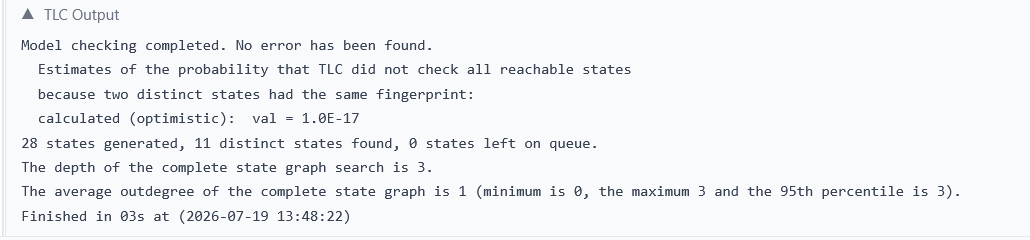
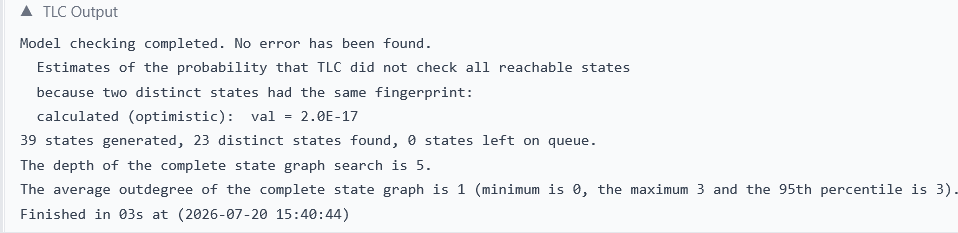
Changes

diff --git a/README.md b/README.md
@@ -4,82 +4,20 @@ This repository contains the formal verification source code for the off-chain d
 
 The system utilizes an immutable blockchain ledger to anchor cryptographic hashes (Merkle Roots) of historical database states, enabling decentralized, automated verification and **Point-in-Time Recovery (PITR)** in the event of localized data corruption, ransomware deployment, or unauthorized data tampering.
 
+This repository contains the formal specification of the HRABAC Recovery mechanism—a security and Point-in-Time Recovery (PITR) framework that utilizes an immutable on-chain distributed ledger as a root of trust (Anchor) to secure and restore off-chain state histories.The model is written in TLA+ and verified using the TLC Model Checker.
+
+
+## 📌 Model Architecture
+
+The specification models a system composed of three core state variables:offchainDB: The active, live state of the off-chain database. It can reside either in a trusted state (ValidStates) or be compromised by an attacker (CorruptedStates).snapshots: A sequence representing historical point-in-time backups of the database stored off-chain.onchainLedger: An append-only, immutable sequence of Merkle roots (hashes) anchored to the blockchain, serving as cryptographic proof of historical truth.
+
+## ⚙ System Actions (Transitions)
+
+The state space transitions through the following legal operations:AnchorAndSnapshot: The Inspector backs up the current valid database state and anchors its corresponding Merkle root to the immutable on-chain ledger.AdversarialMutation: An adversary executes an unauthorized write operation, forcing the live database into a compromised state.RecoverySuccess: If a cryptographic match is found between an off-chain snapshot and an on-chain root, the system automatically rolls back the active database to the latest verified valid state. RecoveryFailed: If an attack occurs before any valid snapshot is anchored on-chain, the system safely falls back into a permanent failure state ("Permanent_Failure"). SystemTerminated: A safe stuttering loop that prevents false deadlocks after a terminal failure state is reached.
+
 ## Formal Verification Architecture
 
 The synchronization layer is formally modeled and verified using **TLA+ (Temporal Logic of Actions)** and verified via the **TLC Model Checker** to evaluate safety properties across 100% of the reachable state space exploration graph.
-
-### 1. TLA+ Specification (`HRABAC_Recovery.tla`)
-
-```tla
-------------------- MODULE HRABAC_Recovery -------------------
-EXTENDS Integers, Sequences
-
-(* Parameters of the system *)
-CONSTANT Snapshots   \* The set of all historical off-chain snapshots
-
-\* Define Blockchain locally as a fixed sequence for structural verification
-Blockchain == <<"Snapshot_Jan", "Snapshot_Feb", "Snapshot_March_Clean">>
-
-VARIABLES 
-    current_db,       \* Current state of the active off-chain database
-    selected_snapshot,\* The snapshot picked by the recovery engine
-    system_status     \* Status of the system: "Operational", "Corrupted", "Recovered"
-
-(* Initial state configuration *)
-Init ==
-    /\ current_db \in Snapshots
-    /\ selected_snapshot = "None"
-    /\ system_status = "Operational"
-
-(* Action 1: An adversarial attack or data corruption occurs off-chain *)
-CorruptDatabase ==
-    /\ system_status = "Operational"
-    /\ current_db' \in Snapshots \ {current_db}  \* DB mutates to an unanchored state
-    /\ system_status' = "Corrupted"
-    /\ UNCHANGED <<selected_snapshot>>
-
-(* Action 2: The recovery engine scans history to locate the matching anchor *)
-ExecuteRecovery ==
-    /\ system_status = "Corrupted"
-    /\ \E s \in Snapshots :
-          /\ \E idx \in 1..Len(Blockchain) : Blockchain[idx] = s  \* Crypto Match
-          /\ selected_snapshot' = s
-    /\ current_db' = selected_snapshot'
-    /\ system_status' = "Recovered"
-
-(* Next state transitions *)
-Next == CorruptDatabase \/ ExecuteRecovery
-
-(* System Specification Macro *)
-Spec == Init /\ [][Next]_<<current_db, selected_snapshot, system_status>>
-
-(* THE STATE INVARIANT PROOF *)
-RecoveryStateInvariant ==
-    (system_status = "Recovered") => 
-        (current_db = selected_snapshot /\ \E idx \in 1..Len(Blockchain) : Blockchain[idx] = current_db)
-==============================================================
-```
-
-### 2. Model Checker Configuration (`HRABAC_Recovery.cfg`)
-
-```text
-SPECIFICATION Spec
-
-CONSTANT 
-    Snapshots = {"Snapshot_Jan", "Snapshot_Feb", "Snapshot_March_Clean", "Snapshot_April_Adversarial"}
-
-INVARIANT RecoveryStateInvariant
-
-CHECK_DEADLOCK FALSE
-```
-
-## The State Invariant Explained
-
-The framework guarantees ultimate safety via the **`RecoveryStateInvariant`** formula:
-
-```text
-Target_Snapshot_Sk = Max_Chronological { S_i in Snapshots | MR(S_i) == B_i }
-```
 
 ### Protocol Mechanics:
 1. **Dynamic Generation:** When data verification is initialized, the system reconstructs the off-chain data array, hashing the target snapshot state into a Merkle Root (`MR(S_i)`).
@@ -90,9 +28,9 @@ Target_Snapshot_Sk = Max_Chronological { S_i in Snapshots | MR(S_i) == B_i }
 
 When processed through the TLC Model Checker engine, the configuration generates the following structural evaluation profile:
 
-* **States Generated:** 28 states
-* **Distinct States Discovered:** 11 unique configurations
-* **Max Graph Execution Depth:** 3 levels (Initial -> Corrupted -> Recovered)
-* **Verification Status:** `Success: No error has been found.`
+* **States Generated:** 39 states
+* **Distinct States Discovered:** 23 unique configurations
+* **Max Graph Execution Depth:** 5 levels 
+ **Verification Status:** `Success: No error has been found.`
 
 This verification profile demonstrates that the HRABAC recovery topology achieves absolute structural safety, eliminating manual administrative evaluation pitfalls and making the model resilient against state corruption under all valid transaction routing behaviors.
